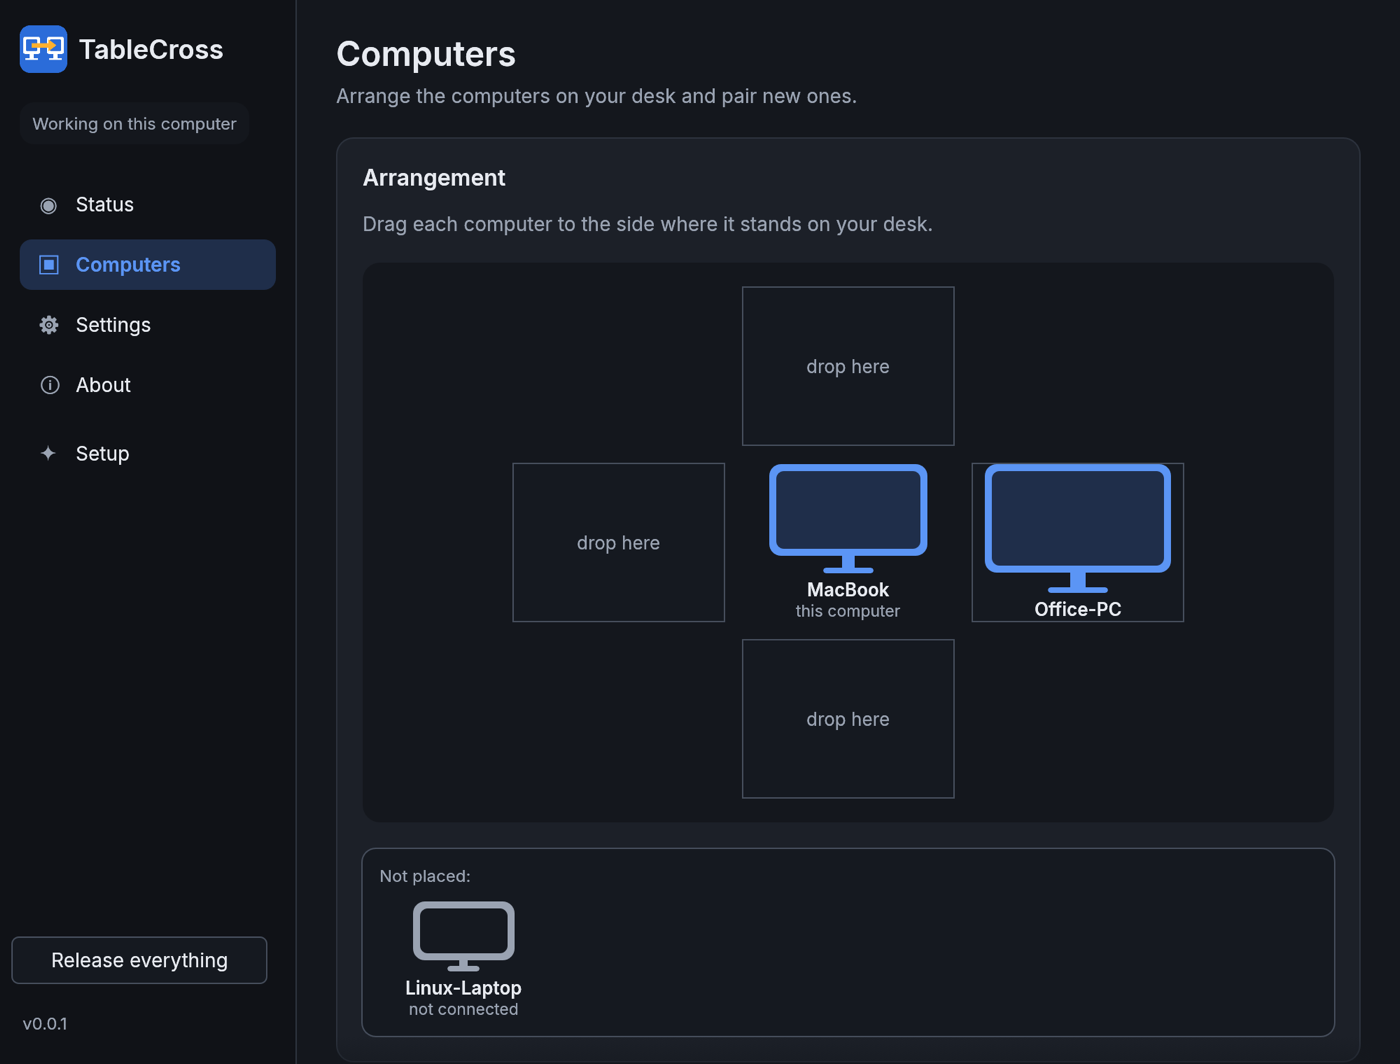
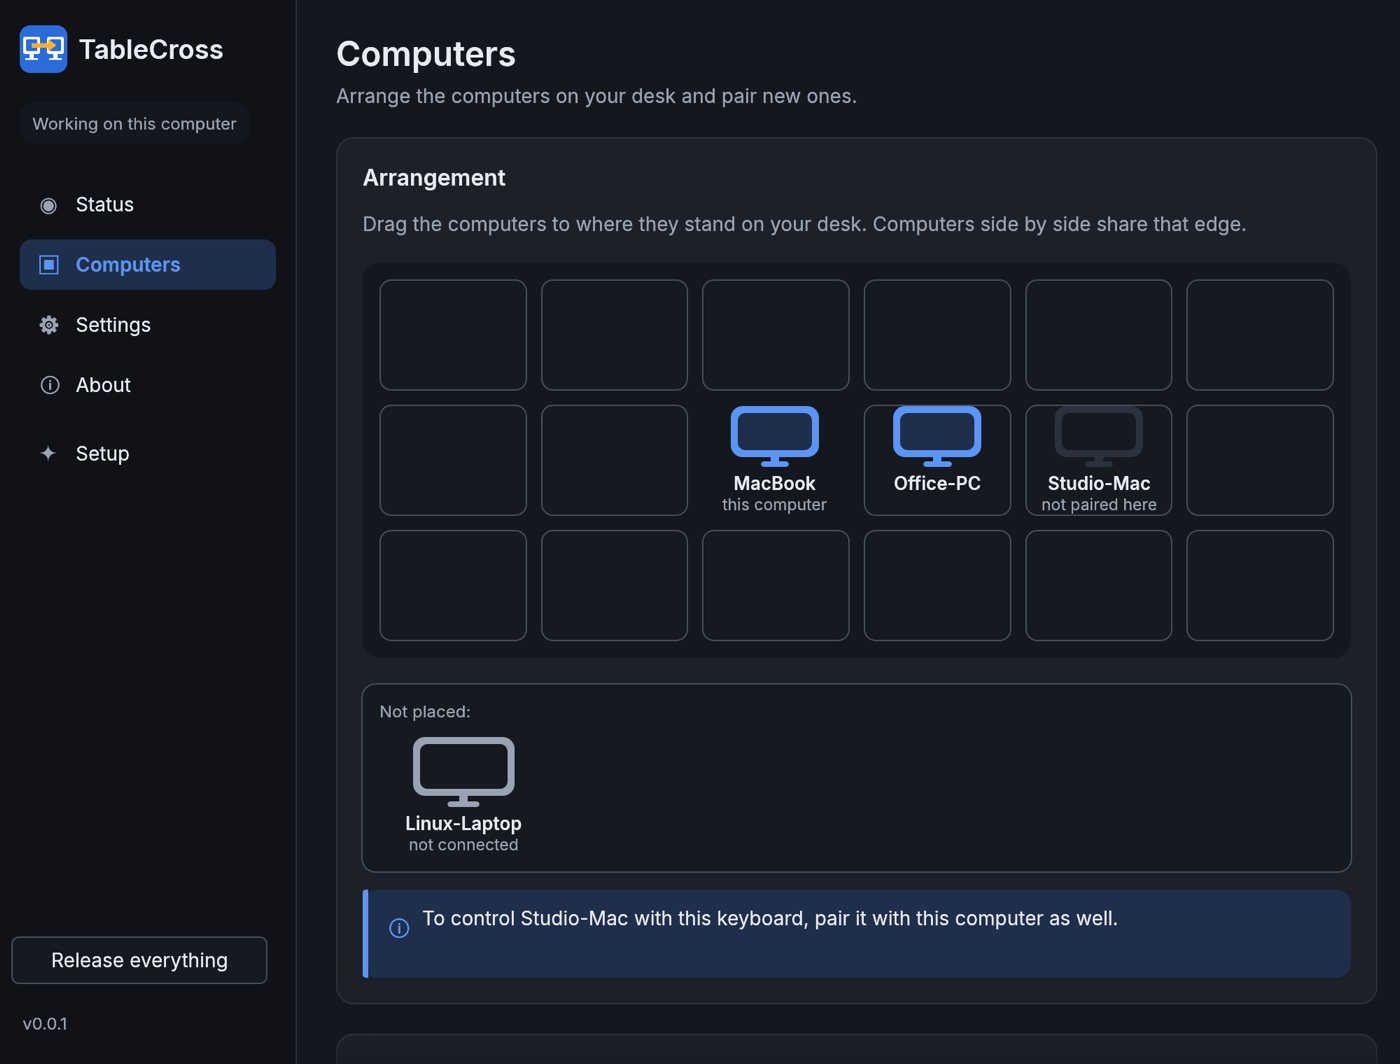
README: screenshot of the new arrangement grid

diff --git a/README.md b/README.md
@@ -6,7 +6,7 @@ on the next computer.
 
 ![TableCross status page: this computer, the paired computers, file transfers](docs/screenshot-status.png)
 
-![Arranging the computers on the desk by dragging (dark mode)](docs/screenshot-computers.png)
+![Arranging the computers on a grid by dragging (dark mode)](docs/screenshot-computers.png)
 
 ![Setup in three steps: permissions, pairing with a code, arrangement](docs/screenshot-setup.png)
 
